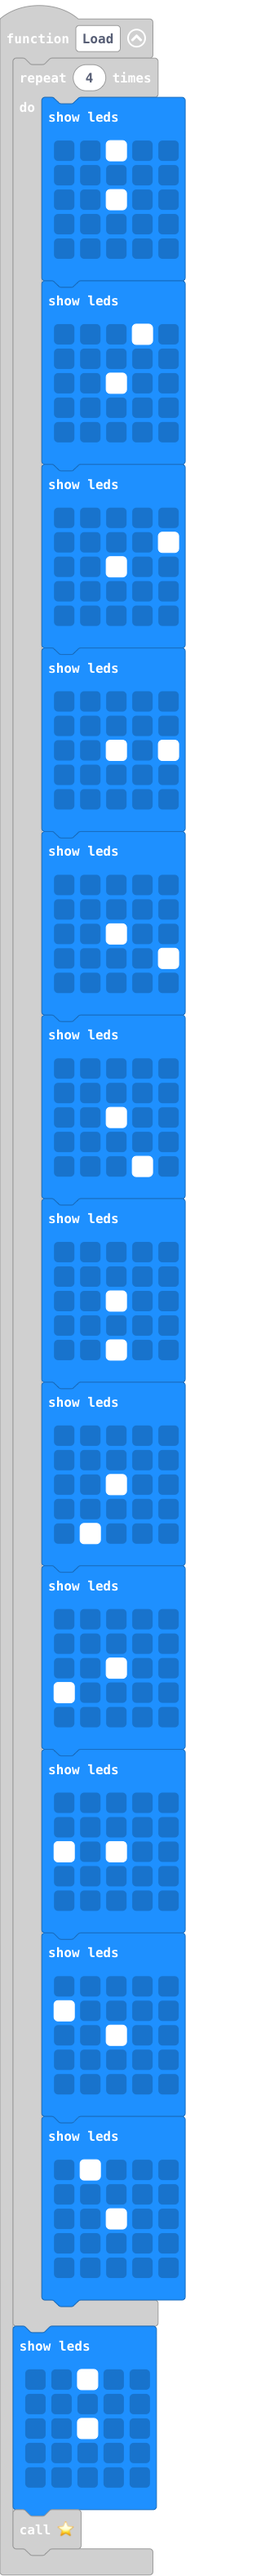
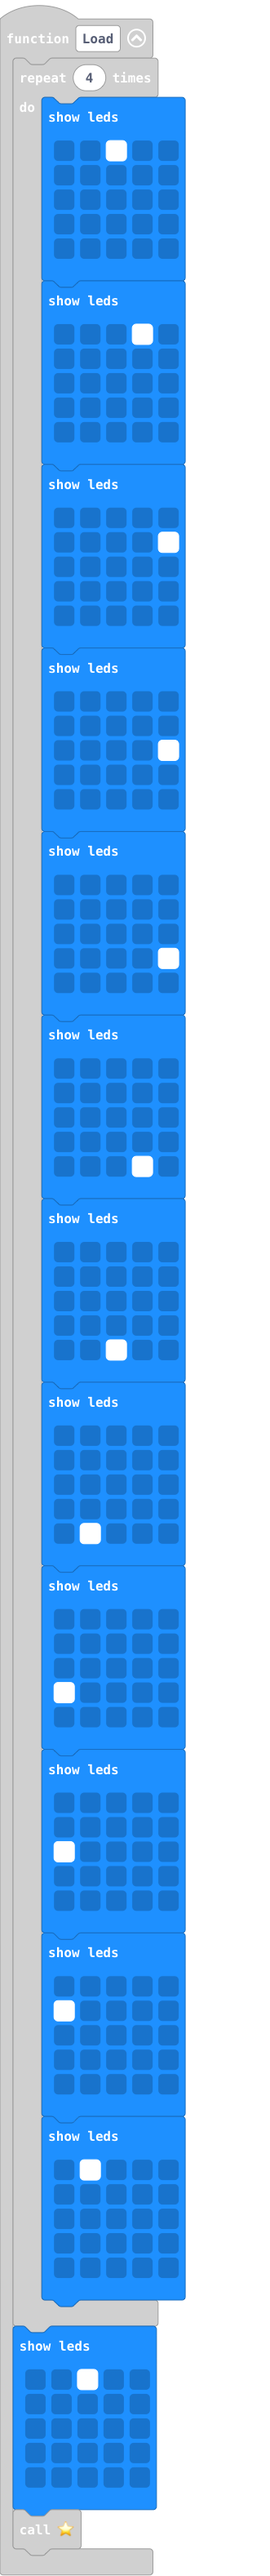
Update main.blocks, main.ts

diff --git a/main.ts b/main.ts
@@ -3,84 +3,84 @@ function Load () {
         basic.showLeds(`
             . . # . .
             . . . . .
-            . . # . .
+            . . . . .
             . . . . .
             . . . . .
             `)
         basic.showLeds(`
             . . . # .
             . . . . .
-            . . # . .
+            . . . . .
             . . . . .
             . . . . .
             `)
         basic.showLeds(`
             . . . . .
             . . . . #
-            . . # . .
             . . . . .
-            . . . . .
-            `)
-        basic.showLeds(`
-            . . . . .
-            . . . . .
-            . . # . #
             . . . . .
             . . . . .
             `)
         basic.showLeds(`
             . . . . .
             . . . . .
-            . . # . .
+            . . . . #
+            . . . . .
+            . . . . .
+            `)
+        basic.showLeds(`
+            . . . . .
+            . . . . .
+            . . . . .
             . . . . #
             . . . . .
             `)
         basic.showLeds(`
             . . . . .
             . . . . .
-            . . # . .
+            . . . . .
             . . . . .
             . . . # .
             `)
         basic.showLeds(`
             . . . . .
             . . . . .
-            . . # . .
+            . . . . .
             . . . . .
             . . # . .
             `)
         basic.showLeds(`
             . . . . .
             . . . . .
-            . . # . .
+            . . . . .
             . . . . .
             . # . . .
             `)
         basic.showLeds(`
             . . . . .
             . . . . .
-            . . # . .
+            . . . . .
             # . . . .
             . . . . .
             `)
         basic.showLeds(`
             . . . . .
             . . . . .
-            # . # . .
+            # . . . .
             . . . . .
             . . . . .
             `)
         basic.showLeds(`
             . . . . .
             # . . . .
-            . . # . .
+            . . . . .
             . . . . .
             . . . . .
             `)
         basic.showLeds(`
             . # . . .
             . . . . .
-            . . # . .
+            . . . . .
             . . . . .
             . . . . .
             `)
@@ -88,7 +88,7 @@ function Load () {
     basic.showLeds(`
         . . # . .
         . . . . .
-        . . # . .
+        . . . . .
         . . . . .
         . . . . .
         `)
